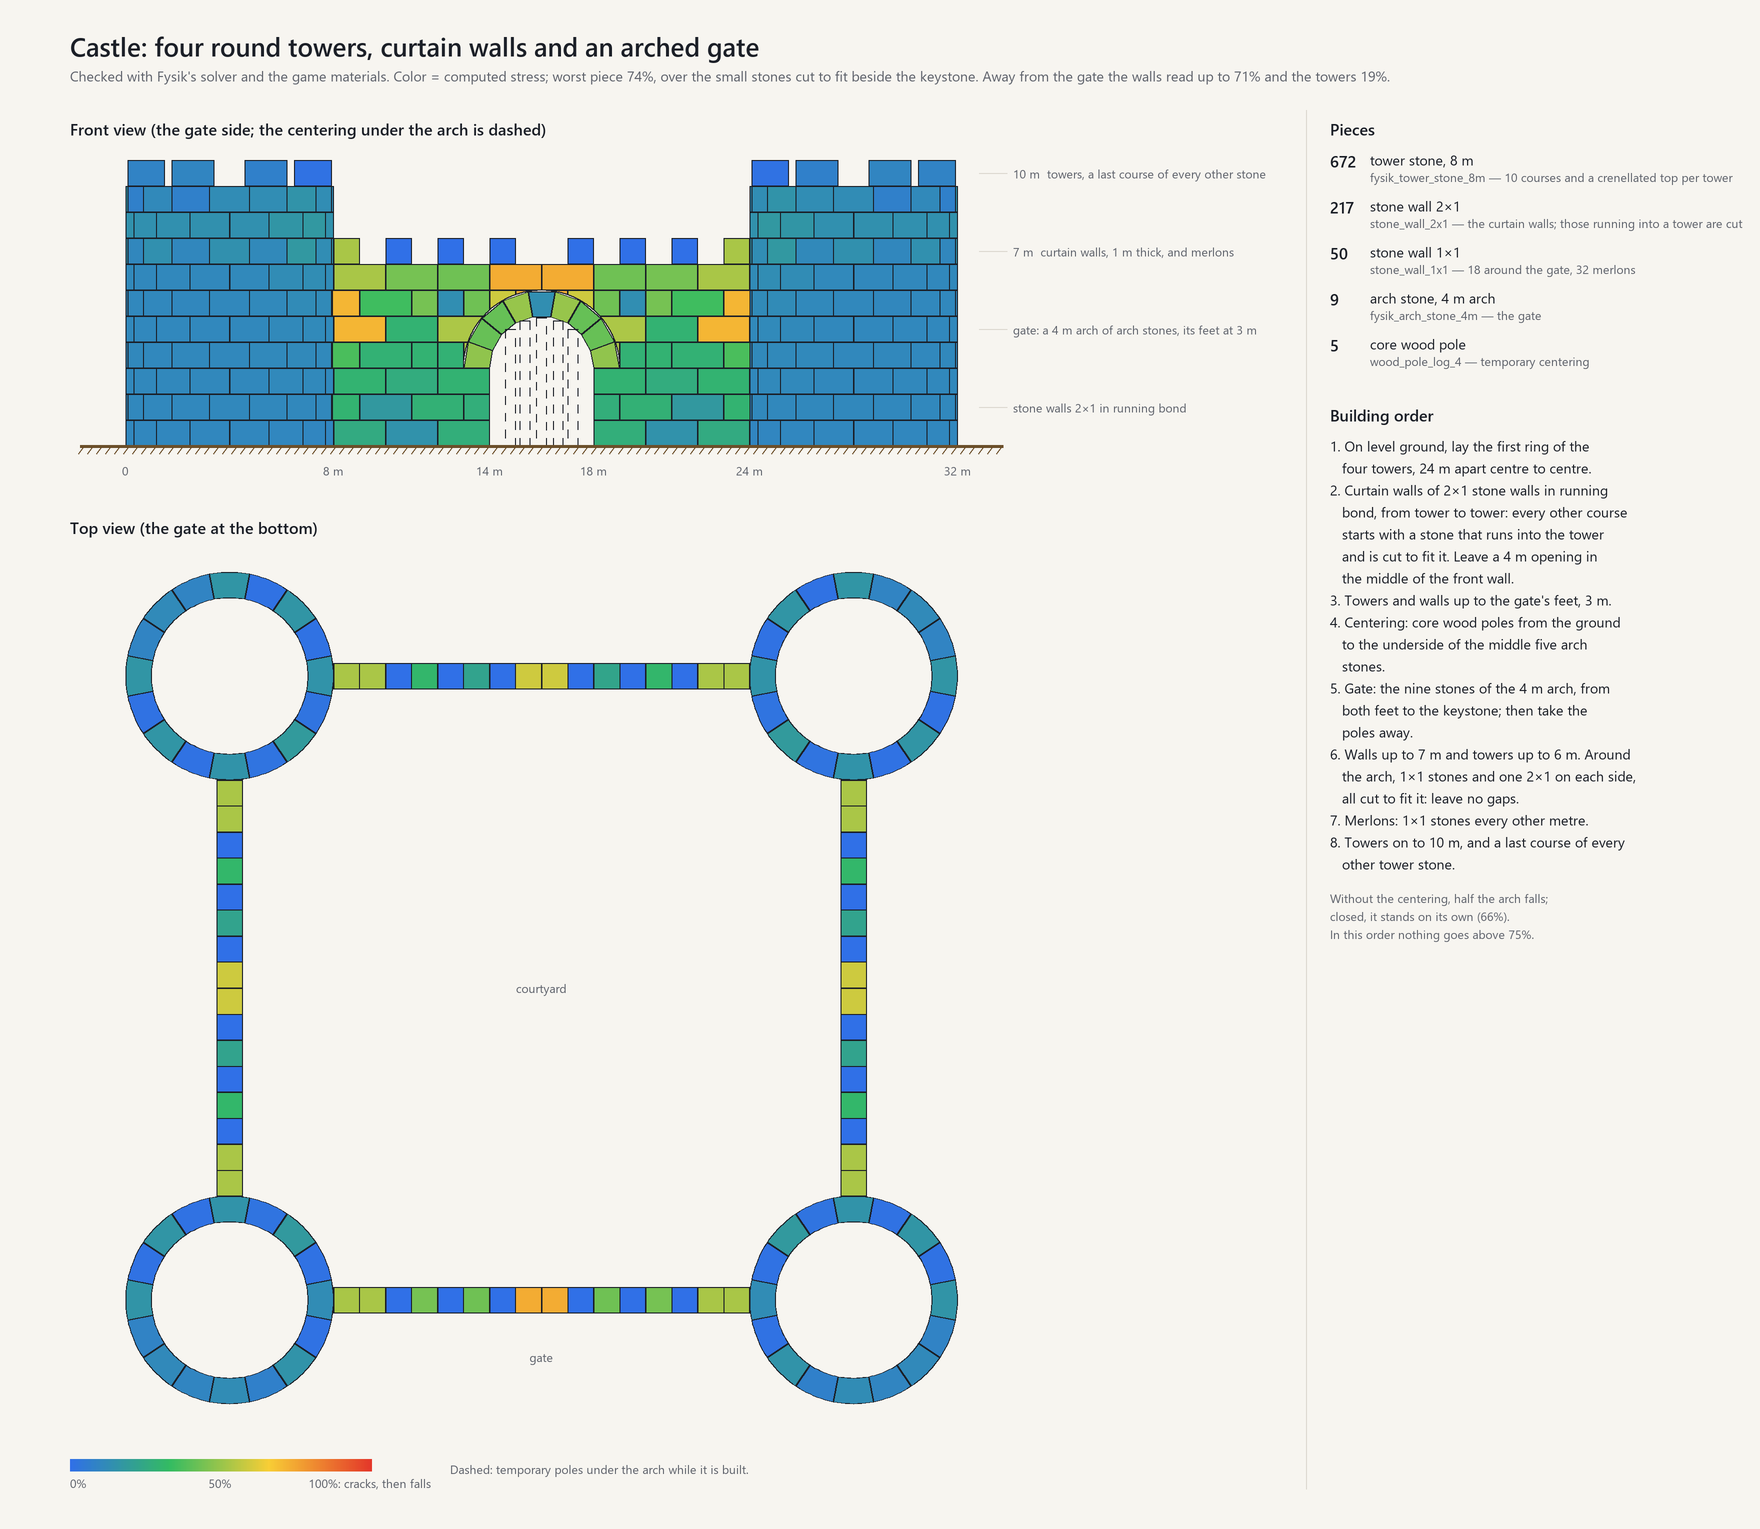
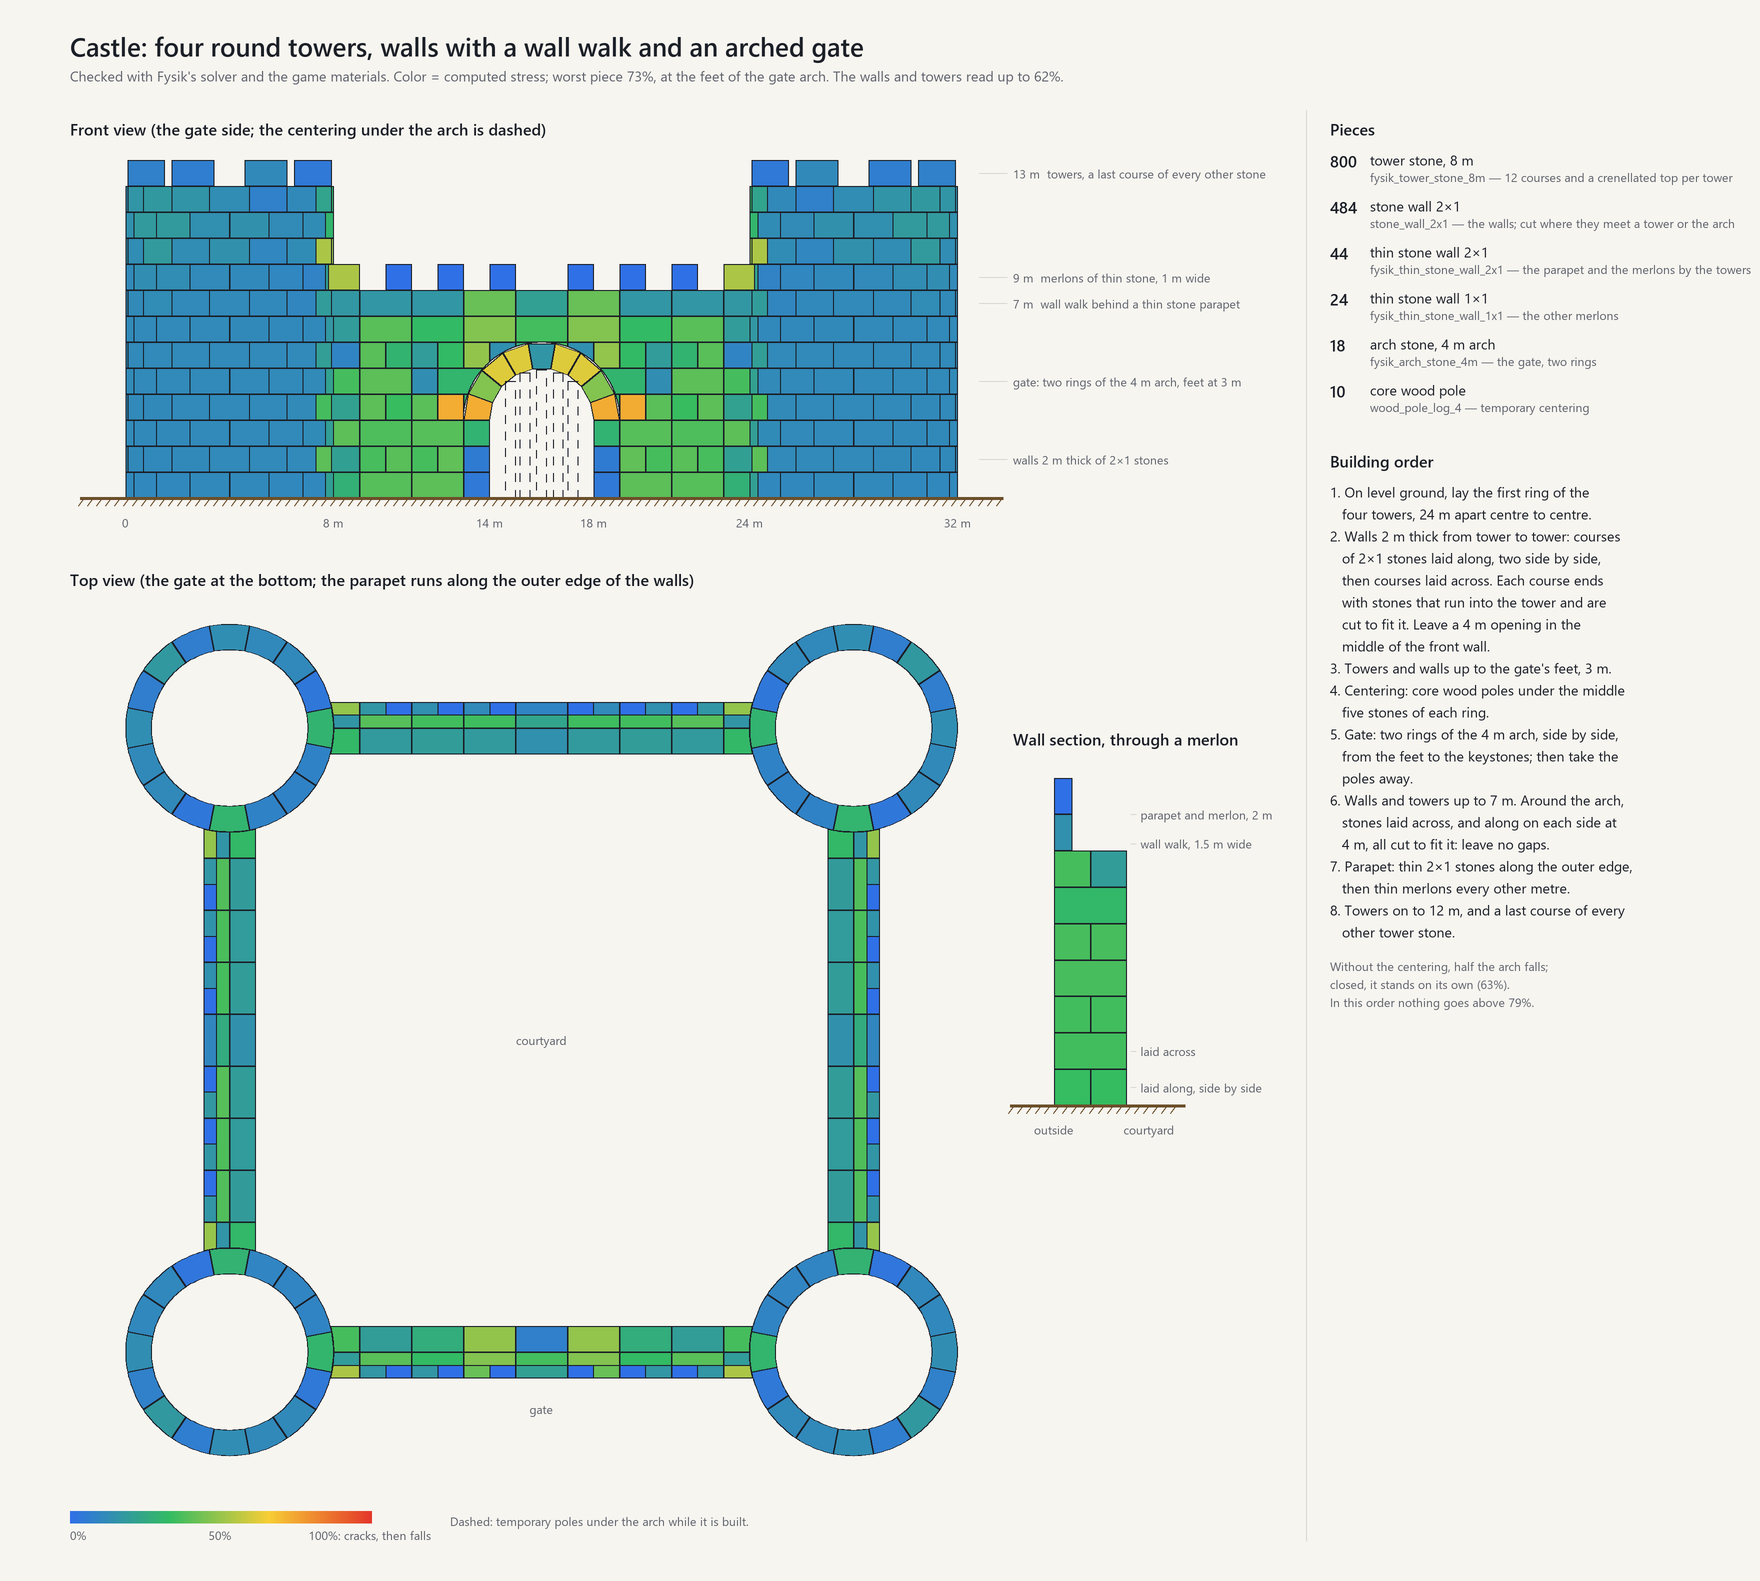
Give the guide's castle a wall walk

diff --git a/docs/wiki/05-building-guide.md b/docs/wiki/05-building-guide.md
@@ -162,15 +162,17 @@ built.
 
 ![Lighthouse: a round tower of tower stones 8 m across and 24 m high; side view, top view, parts list and building order](https://raw.githubusercontent.com/menezesbruno/Fysik/main/docs/images/guide-lighthouse.png)
 
-A castle: four towers 8 m across and 10 m high, 24 m apart at the corners of a square, joined by
-curtain walls of 2×1 stones 7 m high with merlons, and a gate in the front wall under a 4 m arch of
-arch stones. Every other course of the walls starts with a stone that runs into the tower and is cut
-to fit it, and around the arch every stone is cut to fit, so no gap is left. Worst piece 74%, over
-the small stones cut beside the keystone; away from the gate the walls read up to 71% and the towers
-19%. Build the arch on centering and take the poles away once the keystone is in: the closed arch
-stands on its own (66%), and nothing goes above 75% while the castle is built.
+A castle: four towers 8 m across and 13 m high, 24 m apart at the corners of a square, joined by
+walls 2 m thick and 7 m high with a wall walk: defenders stand on a walk 1.5 m wide behind a parapet
+of thin stone 1 m high, with merlons every other metre that bring it to 2 m. The walls are of 2×1
+stones, courses laid along, two side by side, alternating with courses laid across that tie them,
+and every course ends with stones that run into the towers and are cut to fit them. The gate in the
+front wall is two rings of the 4 m arch side by side, every stone around it cut to fit, so no gap is
+left. Worst piece 73%, at the feet of the arch; the walls and towers read up to 62%. Build the arch
+on centering and take the poles away once the keystones are in: the closed arch stands on its own
+(63%), and nothing goes above 79% while the castle is built.
 
-![Castle: four round towers, curtain walls of 2×1 stones and an arched gate; front view, top view, parts list and building order](https://raw.githubusercontent.com/menezesbruno/Fysik/main/docs/images/guide-castle.png)
+![Castle: four round towers, walls 2 m thick with a wall walk behind a parapet, and an arched gate; front view, top view, wall section, parts list and building order](https://raw.githubusercontent.com/menezesbruno/Fysik/main/docs/images/guide-castle.png)
 
 ## Stone bridges
 

diff --git a/CHANGELOG.md b/CHANGELOG.md
@@ -7,15 +7,16 @@
   wall cut to the true curve rested on those corners, so the tower stones and the wall beside them
   read up to 99%. The block now stays inside the curve, with the stone's full weight, and a cut
   stone that only touches another stone corner to corner along an edge no longer holds on it, as
-  between any two stones. The guide's castle read 99% in its towers and walls; it now reads 19% and
-  71%.
+  between any two stones. In the guide's castle the towers and walls read 62% instead of 89%, and
+  79% instead of 97% while it is built.
 - Masonry: a joint that Fysik closes again to stop a loose stone from moving can still slip when it
   is pushed sideways harder than friction holds. It stayed stuck before, and the stones beside it
   could read up to 99%.
 - Numbers change a little where stone meets tower stones or stones cut to fit: towers read a few
   points lower, the guide's lighthouse 35% (was 36%) and its Roman bridge 77% (was 71%).
-- A castle in the building guide: four round towers 24 m apart, curtain walls of 2×1 stones 7 m high
-  with merlons, and a gate under a 4 m arch, every stone around it cut to fit.
+- A castle in the building guide: four round towers 24 m apart, walls 2 m thick of 2×1 stones with a
+  wall walk behind a parapet and merlons of thin stone, and a gate under two rings of the 4 m arch,
+  every stone around it cut to fit.
 
 ## 0.2.2: thin walls and round towers
 
